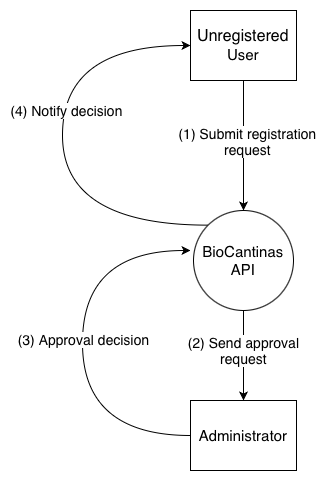
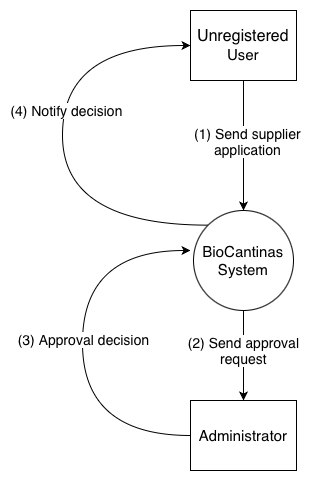
fix DFDs #2

diff --git a/Deliverables/phase1/report.md b/Deliverables/phase1/report.md
@@ -381,13 +381,13 @@ Furthermore, it includes database server components to represent the storage and
   - **Internet**: External communication between the user and the BioCantinas API occurs over the internet, which is a trust boundary that requires secure protocols (e.g., HTTPS) to protect data in transit.
   - **Database Access**: The communication between the BioCantinas API and the database server is also a trust boundary that must be secured to prevent unauthorized access to sensitive user data.
 
-### Registration Supplier
+### Supplier Approval
 
 #### Level 0
 
 ![Registration_level0.png](diagrams/DFD/Registration/Registration_level0.png)
 
-The Level 0 DFD for Registration Supplier illustrates the high-level flow of the **supplier registration process** in the BioCantinas system.
+The Level 0 DFD for Supplier Approval illustrates the high-level flow of the **supplier registration process** in the BioCantinas system.
 It shows the basic interaction between an unregistered supplier and the internal BioCantinas registration service, which is responsible for processing supplier applications and managing the approval workflow.
 
 - **External Entity**:
@@ -401,7 +401,7 @@ It shows the basic interaction between an unregistered supplier and the internal
 
 - **Processes**:
 
-  - **Submit registration request**: The unregistered supplier submits their application, including contact details, name, address, and a PDF of their BIO certificate, to the BioCantinas System for processing.
+  - **Send supplier application**: The unregistered supplier submits their application, including contact details, name, address, and a PDF of their BIO certificate, to the BioCantinas System for processing.
   - **Send approval request**: The BioCantinas System sends the supplier application details to the administrator for review and decision-making.
   - **Approval decision**: The administrator reviews the application and sends an approval or rejection decision back to the BioCantinas System, which then notifies the supplier of the outcome.
   - **Notify decision**: The BioCantinas System sends an email to the supplier regarding the approval or rejection of their application, along with instructions to set up their credentials if approved.´
@@ -432,7 +432,7 @@ It includes database server components to represent the storage and retrieval of
 
 - **Processes**:
 
-  - **Submit supplier registration data**: The unregistered supplier submits their application data, including contact details, name, address, and a PDF of their BIO certificate, to the BioCantinas API for processing.
+  - **Send supplier application**: The unregistered supplier submits their application data, including contact details, name, address, and a PDF of their BIO certificate, to the BioCantinas API for processing.
   - **Review registration data**: The BioCantinas API validates the submitted data and documents for completeness, correctness, and integrity before proceeding with the approval workflow.
   - **Store user data**: Stored securely in the database server for later retrieval during the approval process.
   - **Update approval status**: Approval or rejection decisions made by the administrator are updated in the database to reflect the current status of the supplier application.
